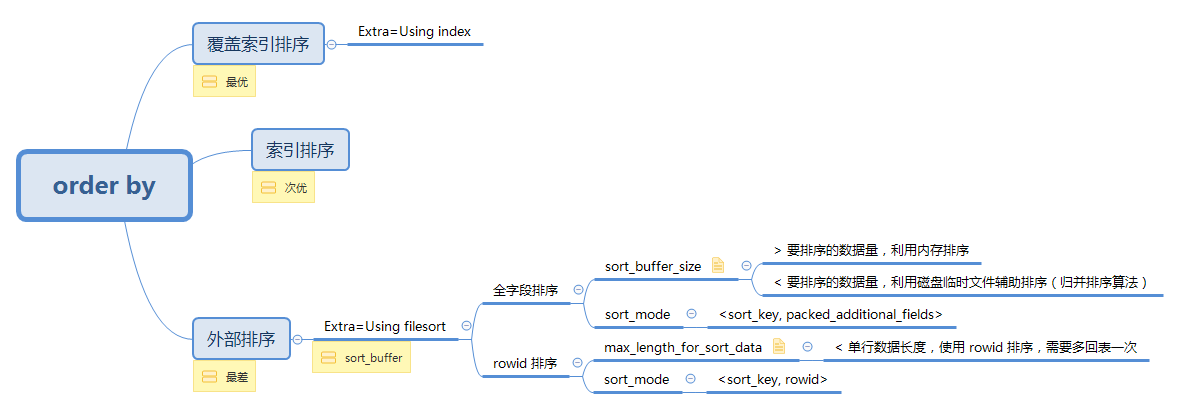
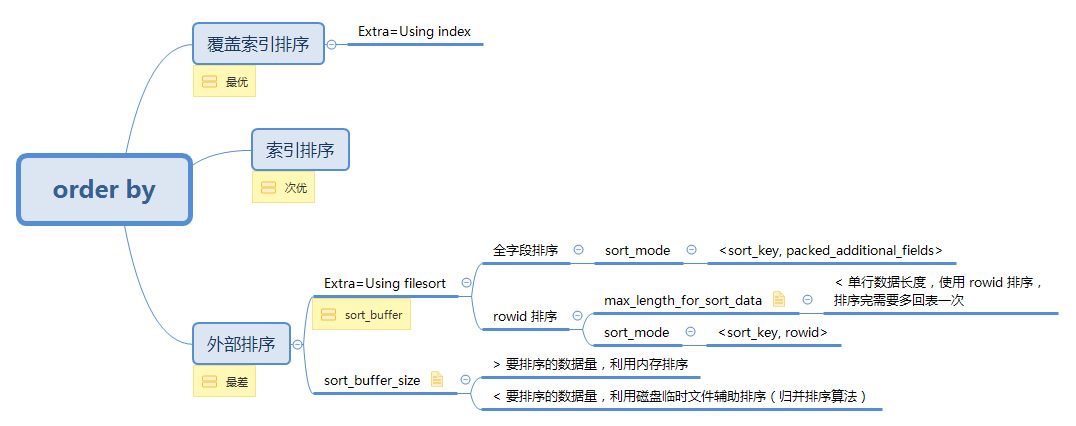
新增一篇 MySQL 排序

diff --git a/source/_posts/mysql-order-by.md b/source/_posts/mysql-order-by.md
@@ -1,0 +1,36 @@
+---
+title: MySQL 几种排序机制分析及优化
+date: 2019-01-03 15:22:13
+updated:
+tags: MySQL
+typora-root-url: ..
+---
+
+# 排序流程
+
+四种排序情况的流程（参考《极客时间》专栏）：
+
+![order_by_process](/img/mysql/order_by_process.png)
+
+![order_by_process](/img/mysql/order_by_process_2.png)
+
+# 总结
+
+排序总结：
+
+![order_by](/img/mysql/order_by.png)
+
+外部排序总结：
+
+* MySQL 会给每个线程分配一块内存用于排序，称为 `sort_buffer`。对 `sort_buffer` 中的数据按照排序字段做**快速排序**；
+* 排序可能在内存中完成，也可能需要使用磁盘排序，取决于排序所需的内存和参数 `sort_buffer_size`。
+* 内存放不下时，使用外部磁盘排序，外部磁盘排序一般使用**归并排序**算法。可以简单理解，MySQL 将需要排序的数据分成 N 份，每一份单独排序后存在这些临时文件中。然后把这 N 个有序文件再合并成一个有序的大文件。
+
+优化方式：
+
+* 将 `WHERE` 和 `ORDER BY` 子句用到的字段，添加联合索引（注意字段顺序）；
+* 如果 `GROUP BY` 结果无需排序，可以加上 `ORDER BY NULL`。
+
+# 参考
+
+https://dev.mysql.com/doc/refman/5.7/en/order-by-optimization.html

diff --git a/source/_posts/mysql-explain.md b/source/_posts/mysql-explain.md
@@ -304,25 +304,13 @@ MySQL 需要创建一张临时表来处理查询。通常发生于查询包含 `
 
 ## Using join buffer
 
-
+使用 BNL 算法进行表连接。这种情况下一般考虑使用索引对被驱动表的表连接字段进行优化，以使用更高效的 NLJ 算法。
 
 ## Using filesort
 
 将用外部排序而不是索引排序，数据较少时从内存排序，否则需要在磁盘完成排序。这种情况下一般考虑使用索引进行优化。
 
-* 将 `WHERE` 和 `ORDER BY` 子句用到的字段，添加联合索引（注意字段顺序）；
-
-* 如果 `GROUP BY` 结果无需排序，可以加上 `ORDER BY NULL`。
-
-参考：[Section 8.2.1.14, “ORDER BY Optimization”](https://dev.mysql.com/doc/refman/5.7/en/order-by-optimization.html)
-
-排序总结：
-
-![order_by](/img/mysql/order_by.png)
-
-四种排序情况的流程（参考《极客时间》）：
-
-![order_by_process](/img/mysql/order_by_process.png)
+优化参考：[Section 8.2.1.14, “ORDER BY Optimization”](https://dev.mysql.com/doc/refman/5.7/en/order-by-optimization.html)
 
 # 参考
 
